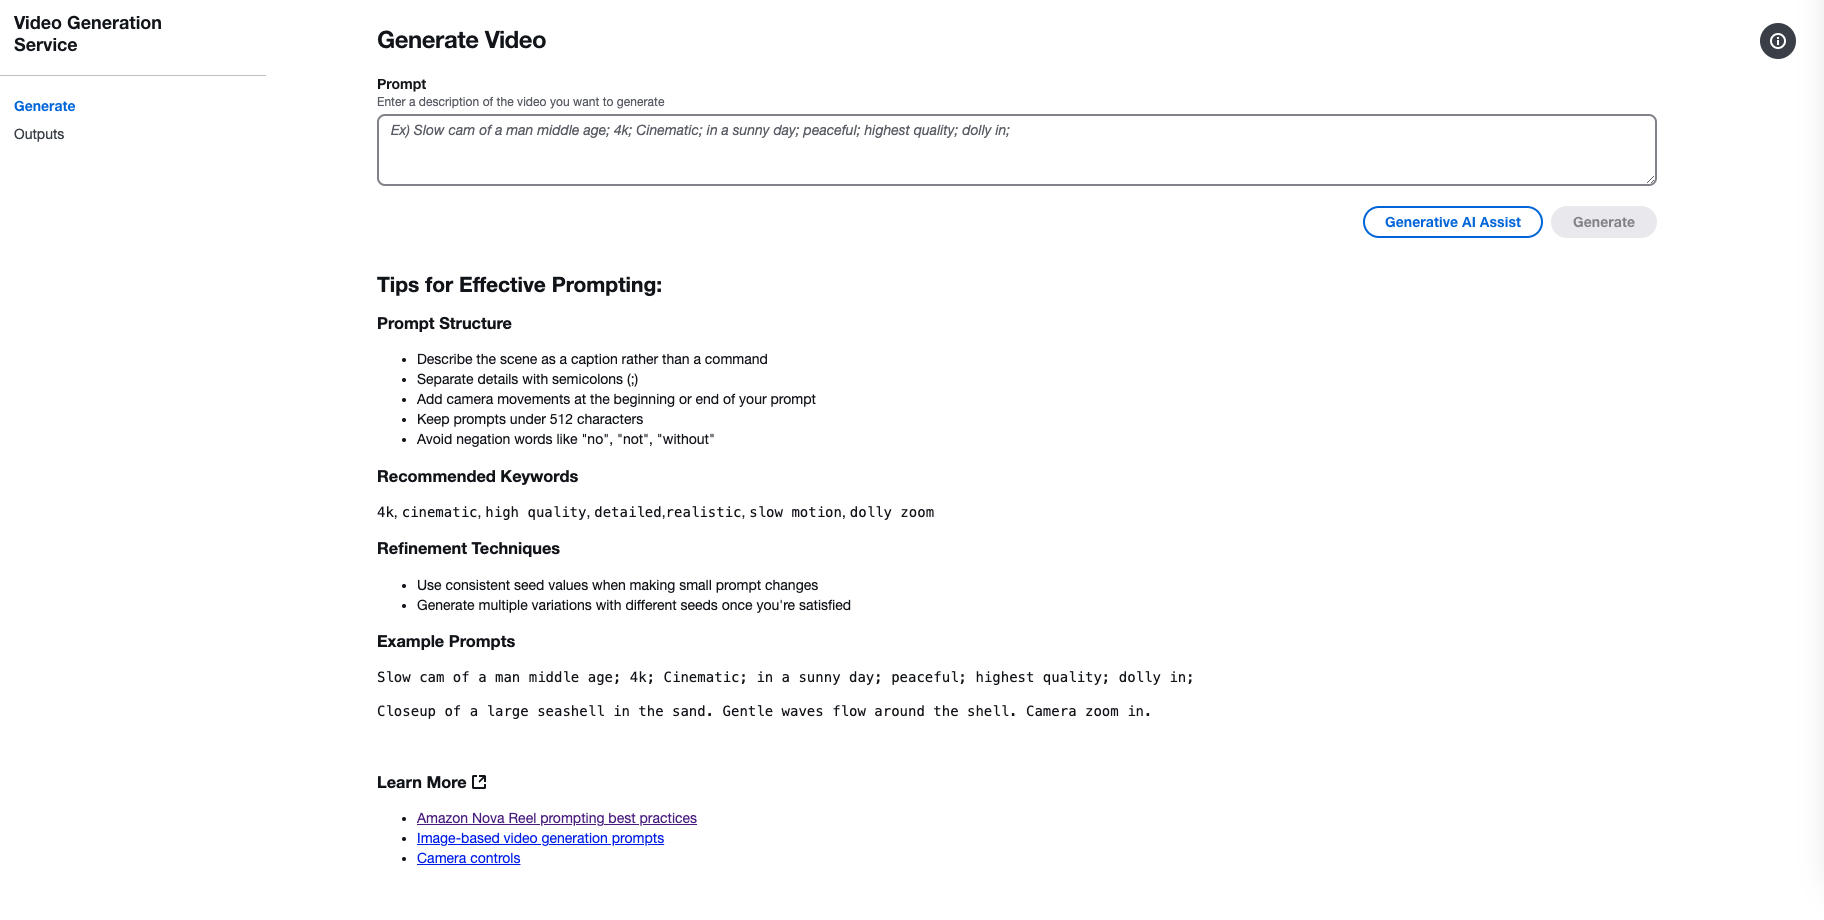
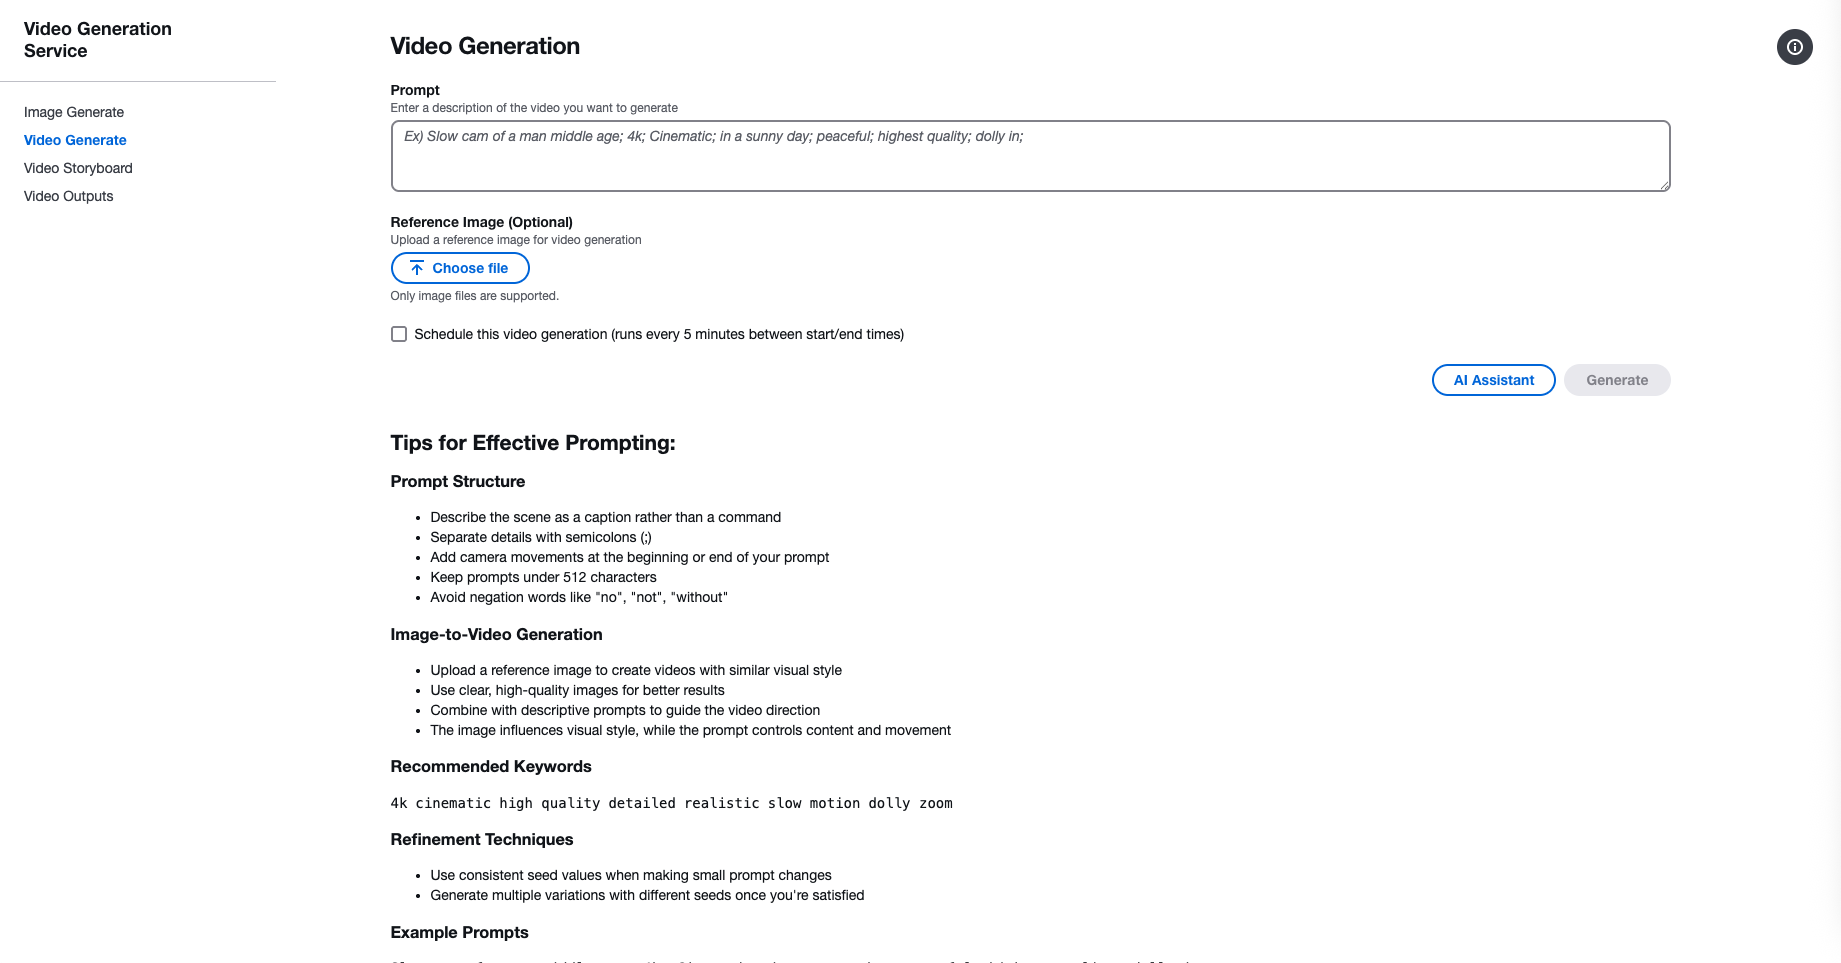
Fix Readme

diff --git a/gen-ai/video-maker-with-nova-reel/frontend/src/components/ImageGenerateForm/index.js b/gen-ai/video-maker-with-nova-reel/frontend/src/components/ImageGenerateForm/index.js
@@ -34,10 +34,10 @@ export default function ImageGenerateForm() {
 
   const validatePrompt = (text) => {
     if (!text.trim()) {
-      return 'Prompt는 필수 입력 항목입니다.';
+      return 'Prompt is required';
     }
     if (text.length < 1 || text.length > 1024) {
-      return 'Prompt는 1-1024자 사이여야 합니다.';
+      return 'The Prompt must 1-1024 characters';
     }
     return null;
   };
@@ -72,7 +72,7 @@ export default function ImageGenerateForm() {
       });
 
       if (!response.ok) {
-        throw new Error('이미지 생성에 실패했습니다.');
+        throw new Error('Failed to generate image');
       }
 
       const data = await response.json();

diff --git a/gen-ai/video-maker-with-nova-reel/backend/stacks/video_maker_with_nova_reel_stack.py b/gen-ai/video-maker-with-nova-reel/backend/stacks/video_maker_with_nova_reel_stack.py
@@ -159,10 +159,8 @@ class VideoMakerWithNovaReelStack(Stack):
         self._attach_merge_videos_lambda_permissions(self.s3_base_bucket.bucket_name)
         self._setup_merge_videos_lambda_integration()
 
-        # Create EventBridge rule for status check
         self._create_status_check_rule()
         
-        # Output API Gateway URL (CFN Output)
         CfnOutput(
             self, "VideoMakerWithNovaReelAPIGateway",
             value=self.api_gateway.url,
@@ -173,7 +171,6 @@ class VideoMakerWithNovaReelStack(Stack):
         self._attach_generate_image_lambda_permissions()
         self._setup_generate_image_lambda_integration()
 
-        # --- 스케줄러 실행 역할 정의 --- 
         scheduler_execution_role = Role(
             self, "SchedulerExecutionRole",
             assumed_by=ServicePrincipal("scheduler.amazonaws.com"),
@@ -181,7 +178,6 @@ class VideoMakerWithNovaReelStack(Stack):
         )
         self.generate_video_lambda.grant_invoke(scheduler_execution_role)
 
-        # --- 스케줄 관리 Lambda 정의 --- 
         manage_video_schedule_lambda = self._create_manage_video_schedule_lambda(
             target_lambda_arn=self.generate_video_lambda.function_arn,
             scheduler_role_arn=scheduler_execution_role.role_arn,
@@ -620,12 +616,8 @@ class VideoMakerWithNovaReelStack(Stack):
         Note: The FFmpeg layer needs to be added manually to this function
         after deployment, following the instructions in README.md.
         """
-        # FFmpeg 레이어 ARN 참조 제거 - 수동으로 추가해야 함
-        # ffmpeg_layer_arn = f"arn:aws:lambda:{Aws.REGION}:{Aws.ACCOUNT_ID}:layer:ffmpeg-layer-name:1"
-        # ffmpeg_layer = lambda_.LayerVersion.from_layer_version_arn(self, "FFmpegLayerImport", layer_version_arn=ffmpeg_layer_arn)
         
         return lambda_.Function(self, "MergeVideosLambda", 
-            # layers=[ffmpeg_layer], # CDK 배포 시 레이어 연결 제거
             runtime=lambda_.Runtime.PYTHON_3_11,
             code=lambda_.Code.from_asset("./lambda/api/merge-videos"),
             handler="index.lambda_handler",
@@ -910,20 +902,18 @@ class VideoMakerWithNovaReelStack(Stack):
             self, "ManageVideoScheduleLambda",
             runtime=lambda_.Runtime.PYTHON_3_11,
             handler="index.lambda_handler",
-            code=lambda_.Code.from_asset("lambda/api/manage-video-schedule"), # 해당 경로에 코드 필요
-            layers=[dependencies_layer], # boto3 외 필요하면 레이어 전달
+            code=lambda_.Code.from_asset("lambda/api/manage-video-schedule"),
+            layers=[dependencies_layer],
             timeout=Duration.seconds(60),
             memory_size=256,
             environment={
                 "TARGET_LAMBDA_ARN": target_lambda_arn,
                 "SCHEDULER_ROLE_ARN": scheduler_role_arn,
-                # 고정 스케줄 이름 정의 (Lambda 코드에서도 사용)
                 "SCHEDULE_NAME": "user-video-schedule" 
             }
         )
 
     def _attach_manage_video_schedule_lambda_permissions(self, function: lambda_.Function, scheduler_role_arn_to_pass: str) -> None:
-        # EventBridge Scheduler 관리 권한 (고정 이름 스케줄 대상)
         scheduler_policy = PolicyStatement(
             actions=[
                 "scheduler:CreateSchedule",
@@ -931,11 +921,9 @@ class VideoMakerWithNovaReelStack(Stack):
                 "scheduler:GetSchedule",
                 "scheduler:UpdateSchedule",
             ],
-            # 특정 스케줄 이름(및 기본 그룹)으로 제한
             resources=[f"arn:aws:scheduler:{Aws.REGION}:{Aws.ACCOUNT_ID}:schedule/default/user-video-schedule"],
             effect=Effect.ALLOW
         )
-        # Scheduler 생성/수정 시 실행 역할을 전달할 권한
         pass_role_policy = PolicyStatement(
             actions=["iam:PassRole"],
             resources=[scheduler_role_arn_to_pass],
@@ -946,8 +934,6 @@ class VideoMakerWithNovaReelStack(Stack):
 
     def _setup_manage_video_schedule_lambda_integration(self, handler: lambda_.Function) -> None:
         integration = LambdaIntegration(handler)
-        # /apis/videos/schedule 경로에 대한 메서드들
         self.schedule_resource.add_method("POST", integration, method_responses=self._default_method_response())
         self.schedule_resource.add_method("GET", integration, method_responses=self._default_method_response())
         self.schedule_resource.add_method("DELETE", integration, method_responses=self._default_method_response())
-        # {schedule_id} 경로는 사용 안 함

diff --git a/gen-ai/video-maker-with-nova-reel/README.md b/gen-ai/video-maker-with-nova-reel/README.md
@@ -1,10 +1,13 @@
 # Video Maker with Amazon Bedrock(Nova Reel)
+![nova-maker](./docs/images/nova-maker-architecture.jpeg)
 
 ## Project Overview
 This project is a video creation automation system using Amazon Bedrock(Nova Reel). It is built using AWS CDK for infrastructure and consists of frontend and backend components.
 
 ![screenshot1](./docs/images/video-generation-service-1.jpeg)
 You can get help from "Generative AI Assist" to get suggested prompts based on best practices from Amazon Nova Reel.
+
+According to [Nova Reel's best practices](https://docs.aws.amazon.com/nova/latest/userguide/prompting-video-generation.html), if you want better quality results from the same prompt, you can extract results by randomly changing the Seed value. Since this is a repetitive task, you can use the Schedule feature to create an Eventbridge and generate videos at 5-minute intervals.
 ![screenshot1](./docs/images/video-generation-service-2.jpeg)
 ![screenshot2](./docs/images/video-generation-service-3.jpeg)
 
@@ -23,6 +26,9 @@ Select "Generate Videos" and once the video is generated, merge the videos with 
 example - Lovers watching the Northern Lights in Ireland
 
 ![example video](./docs/images/Lovers.gif)
+
+## Image Generator with Nova Canvas
+![example video](./docs/images/image-generation-1.jpeg)
 
 ## System Architecture
 - Frontend: React-based web application

diff --git a/gen-ai/video-maker-with-nova-reel/backend/README.md b/gen-ai/video-maker-with-nova-reel/backend/README.md
@@ -1,4 +1,3 @@
-
 # Backend forVideo Maker with Amazon Bedrock(Nova Reel)
 
 ## Prerequisites
@@ -50,21 +49,21 @@ backend
 ├── app.py
 ├── cdk.context.json
 ├── cdk.json
+├── requirements.txt
+├── source.bat
 ├── lambda
 │   └── api
+│       ├── chat-nova
 │       ├── delete-video
-│       │   └── index.py
+│       ├── generate-image
 │       ├── generate-video
-│       │   ├── index.py
-│       │   └── requirements.txt
 │       ├── get-video
-│       │   └── index.py
 │       ├── list-video
-│       │   └── index.py
-│       ├── prompt-assist
-│       └── status-video
-│           └── index.py
-├── requirements.txt
+│       ├── manage-video-schedule
+│       ├── merge-videos
+│       ├── status-video
+│       ├── storyboard-generate
+│       └── storyboard-videos
 └── stacks
     └── video_maker_with_nova_reel_stack.py
 ```
